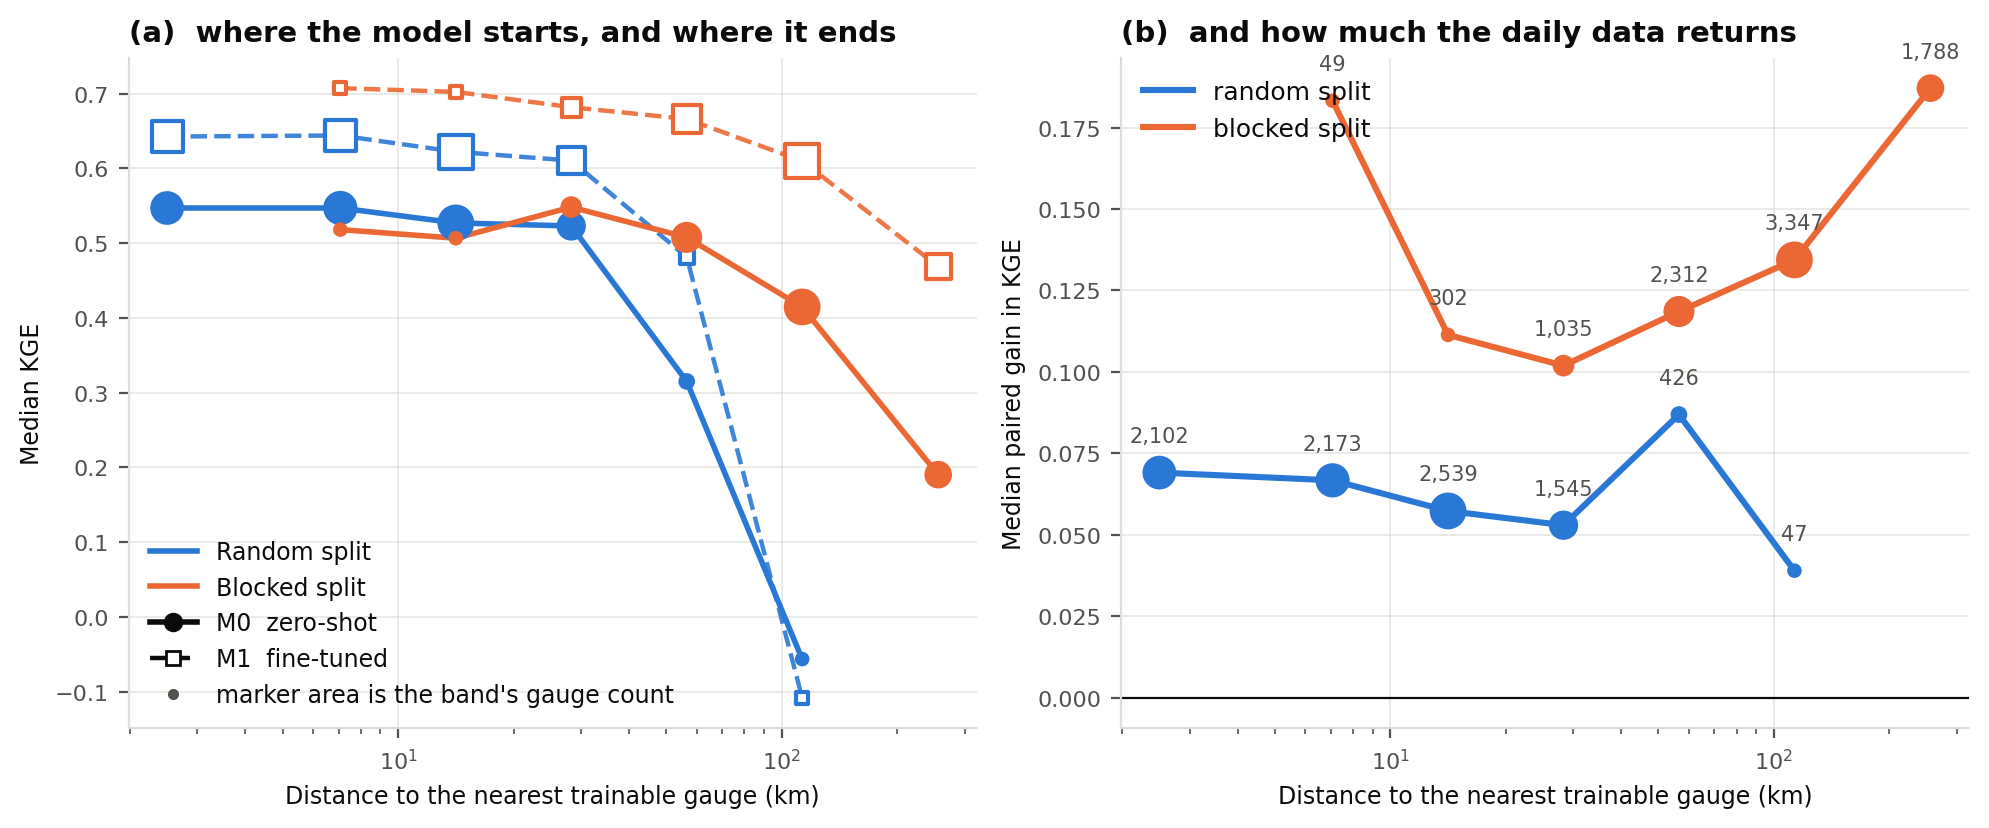
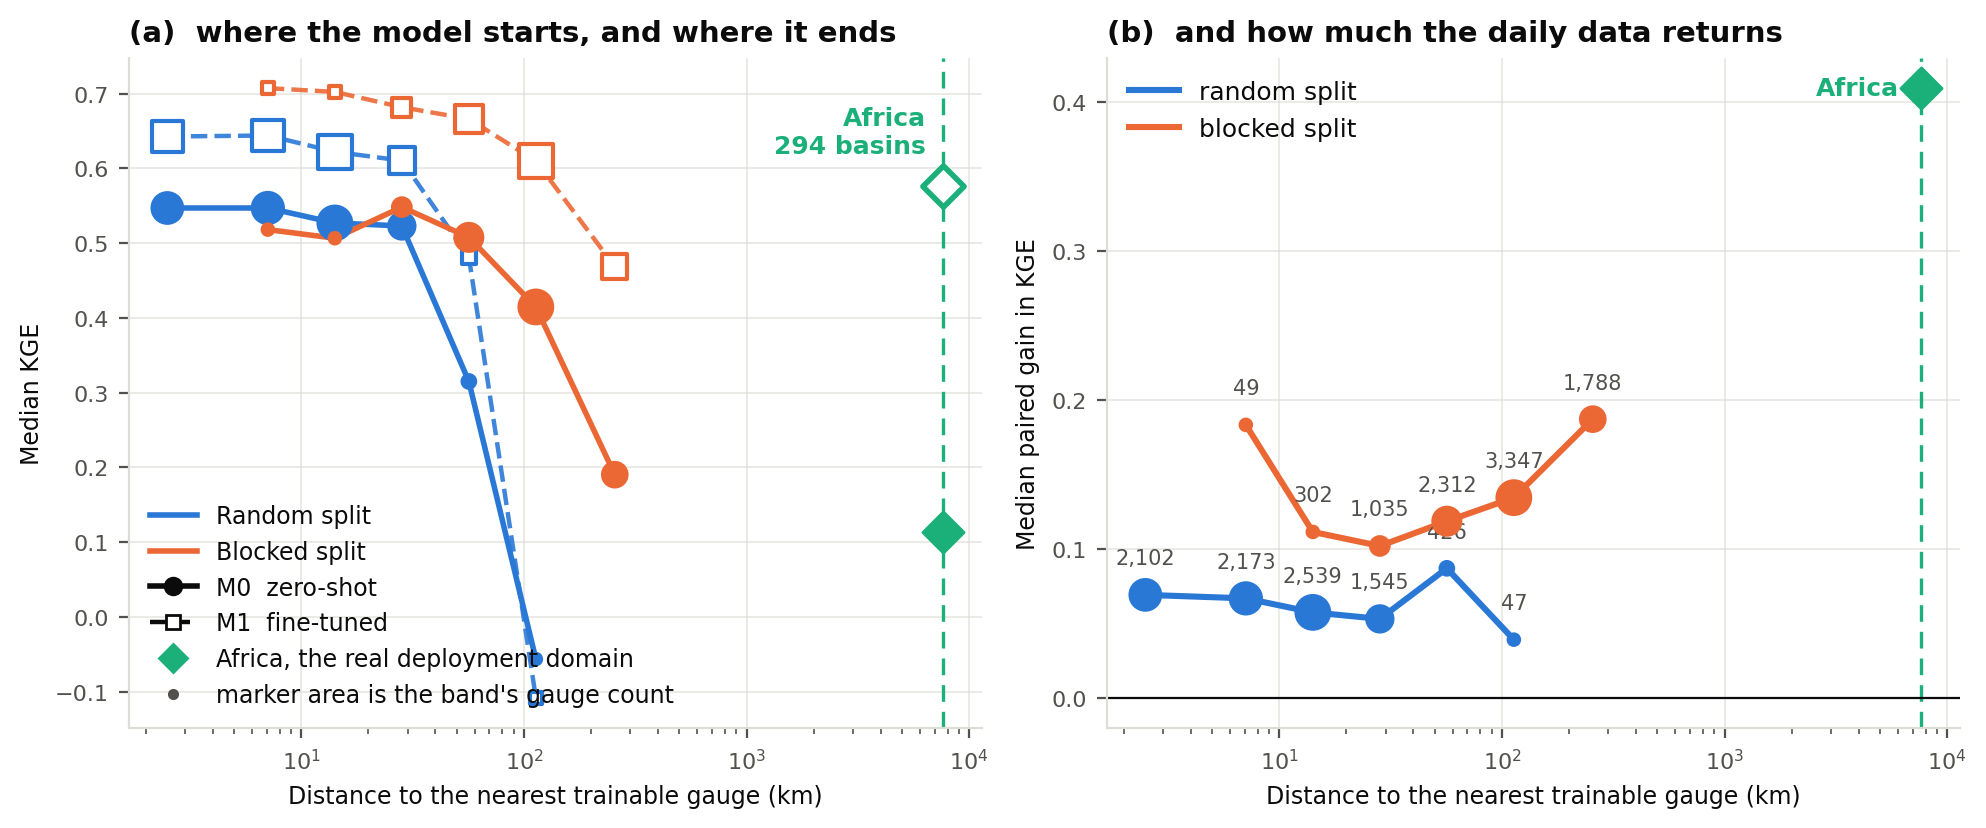
Close the distance profile with the deployment domain, measured rather than assumed
The spatial cross-validation literature's unresolved question is which split's number to
quote, and both camps answer it the same way: whichever one's test-to-train distance
distribution matches the deployment task. Brenning (2023) puts it as shifting from "at what
distance does the test set become independent" to "at what distances do I intend to
predict". kNNDM builds folds to match that distribution. Neither is answerable without a
stated deployment domain.

This study has a real one, and it is not close to either split. The 294 African basins sit a
median 7,621 km from the nearest gauge in the training network, with a 5th percentile of
4,140 km and a minimum of 1,127 km. Against the random split's median of 10.4 km and the
blocked split's 94.1 km, 100 percent of deployment targets are further away than either,
by factors of 730 and 81.

So reporting the random-split figure for this task describes a prediction problem the model
does not face. That is now a measurement rather than a methodological preference, and it
uses the external test set the paper already has.

The same fact cuts the other way and the report has to say so: the deployment domain is 81
times further than the blocked split, so 0.436 is still optimistic for it. The profile can
be closed with an observation instead of an extrapolation, because Africa's zero-shot median
is measured at 0.114. Zero-shot skill falls monotonically along the whole range, 0.547 at 10
[…]

diff --git a/scripts/spatial_profile.py b/scripts/spatial_profile.py
@@ -52,6 +52,69 @@ EDGES = [0, 5, 10, 20, 40, 80, 160, np.inf]
 BUFFER_KM = 20.0
 
 
+
+EARTH_RADIUS_KM = 6371.0
+AFRICA_BASINS = "africa/africa_basins.csv"
+STATIC_CSV = ("/ibex/project/c2266/abbaa0a/data/gscad_database/processed/20250630/"
+              "hourly/dataframes/static.csv")
+
+
+def unit_vectors(lat_deg, lon_deg):
+    lat, lon = np.radians(np.asarray(lat_deg)), np.radians(np.asarray(lon_deg))
+    return np.column_stack([np.cos(lat) * np.cos(lon),
+                            np.cos(lat) * np.sin(lon),
+                            np.sin(lat)])
+
+
+def deployment_distances(logger) -> dict | None:
+    """How far the actual deployment target sits from the training network.
+
+    This is the quantity Brenning (2023) says the assessment should target and that
+    kNNDM matches its folds to: not "at what distance does the test set become
+    independent" but "at what distances do I intend to predict". Both are answerable only
+    against a stated deployment domain, and this study has a real one rather than a
+    hypothetical: the 294 African basins, none of which appears anywhere in training and
+    none of which has hourly discharge.
+
+    Computed on 3-D unit vectors so nothing breaks at the dateline, the same way the
+    blocked split is built.
+    """
+    basins_path, static_path = Path(AFRICA_BASINS), Path(STATIC_CSV)
+    if not (basins_path.exists() and static_path.exists()):
+        logger.info("deployment distances: inputs missing, skipping")
+        return None
+    basins = pd.read_csv(basins_path)
+    folds = pd.read_csv(FOLDS)
+    static = pd.read_csv(static_path, comment="#", index_col=0)[["lat", "long"]]
+    train = static.loc[static.index.intersection(folds["station_id"].astype(str))]
+    if train.empty or basins.empty:
+        return None
+
+    gauge_v = unit_vectors(train["lat"].to_numpy(), train["long"].to_numpy())
+    basin_v = unit_vectors(basins["lat"].to_numpy(), basins["long"].to_numpy())
+    cos = np.clip(basin_v @ gauge_v.T, -1.0, 1.0)
+    nearest = EARTH_RADIUS_KM * np.arccos(cos).min(axis=1)
+
+    out = {
+        "n_deployment_targets": int(len(basins)),
+        "n_training_gauges": int(len(train)),
+        "median_km": float(np.median(nearest)),
+        "p05_km": float(np.percentile(nearest, 5)),
+        "p25_km": float(np.percentile(nearest, 25)),
+        "p75_km": float(np.percentile(nearest, 75)),
+        "p95_km": float(np.percentile(nearest, 95)),
+        "min_km": float(nearest.min()),
+        "frac_beyond_random_median": None,
+        "frac_beyond_blocked_median": None,
+    }
+    logger.info("deployment domain: %d African basins against %d training gauges",
+                out["n_deployment_targets"], out["n_training_gauges"])
+    logger.info("  distance to the nearest training gauge: median %.0f km "
+                "(5-95%%: %.0f to %.0f, min %.0f)",
+                out["median_km"], out["p05_km"], out["p95_km"], out["min_km"])
+    return out, nearest
+
+
 def per_gauge(root: str) -> pd.DataFrame:
     """Paired M0 and M1 per gauge, pooled over folds."""
     path = Path(root) / "diagnostics_allhours" / "kge_components_target.csv"
@@ -156,6 +219,23 @@ def main() -> None:
                     entry["buffered"]["M0"], entry["buffered"]["M1"],
                     entry["buffered"]["gain"], entry["unbuffered"]["gain"])
         logger.info("")
+
+    # --- which part of the profile the deployment task actually occupies ---------
+    got = deployment_distances(logger)
+    if got is not None:
+        deploy, nearest = got
+        for name, entry in payload["splits"].items():
+            median = entry["median_km"]
+            share = float((nearest > median).mean())
+            deploy[f"frac_beyond_{name}_median"] = share
+            logger.info("  %.1f%% of deployment targets are further from the training "
+                        "network than the %s split's median of %.1f km",
+                        100 * share, name, median)
+        payload["deployment"] = deploy
+        logger.info("")
+        logger.info("The deployment distance distribution is what decides which split's "
+                    "number to quote. Reporting the random-split figure for this task "
+                    "would describe a prediction problem the model does not face.")
 
     if rows_out:
         pd.concat(rows_out, ignore_index=True).to_csv(

diff --git a/scripts/make_figures.py b/scripts/make_figures.py
@@ -1300,7 +1300,31 @@ def fig_spatial_profile(out: Path) -> str | None:
                         textcoords="offset points", ha="center", fontsize=7.5,
                         color=MUTED)
 
+    # Africa on the same axis. Its 294 basins sit a median 7,621 km from the training
+    # network, so the deployment task lies two orders of magnitude beyond either split's
+    # median, and the profile can be closed with a measurement rather than an
+    # extrapolation. Every point on this curve is observed.
+    deploy = data.get("deployment")
+    afr_path = Path("outputs/v2_africa_insitu_summary/ensemble_summary.json")
+    if deploy and afr_path.exists():
+        afr = json.loads(afr_path.read_text())
+        xa = deploy["median_km"]
+        ax.axvline(xa, color=AQUA, lw=1.2, ls=(0, (5, 3)), zorder=1)
+        ax.scatter([xa], [afr["M0"]["median_kge"]], s=110, color=AQUA, marker="D", zorder=5)
+        ax.scatter([xa], [afr["M1"]["median_kge"]], s=110, facecolor="white",
+                   edgecolor=AQUA, lw=2.0, marker="D", zorder=5)
+        ax.annotate("Africa\n294 basins", (xa, afr["M1"]["median_kge"]),
+                    xytext=(-6, 12), textcoords="offset points", ha="right",
+                    fontsize=9, color=AQUA, fontweight="semibold")
+        bx.axvline(xa, color=AQUA, lw=1.2, ls=(0, (5, 3)), zorder=1)
+        bx.scatter([xa], [afr["paired"]["median_delta_kge"]], s=110, color=AQUA,
+                   marker="D", zorder=5)
+        bx.annotate("Africa", (xa, afr["paired"]["median_delta_kge"]),
+                    xytext=(-8, 0), textcoords="offset points", ha="right", va="center",
+                    fontsize=9, color=AQUA, fontweight="semibold")
+
     ax.set_xscale("log")
+    bx.set_xscale("log")
     ax.set_xlabel("Distance to the nearest trainable gauge (km)")
     ax.set_ylabel("Median KGE")
     ax.set_title("(a)  where the model starts, and where it ends", fontsize=10.5, loc="left")
@@ -1309,6 +1333,8 @@ def fig_spatial_profile(out: Path) -> str | None:
                Line2D([], [], color=INK, lw=2, marker="o", ms=6, label="M0  zero-shot"),
                Line2D([], [], color=INK, lw=1.6, ls="--", marker="s", ms=5, mfc="white",
                       label="M1  fine-tuned"),
+               Line2D([], [], color=AQUA, lw=0, marker="D", ms=7,
+                      label="Africa, the real deployment domain"),
                Line2D([], [], color=MUTED, lw=0, marker="o", ms=3,
                       label="marker area is the band's gauge count")]
     ax.legend(handles=handles, fontsize=8.5, frameon=False, labelcolor=INK, loc="lower left")
